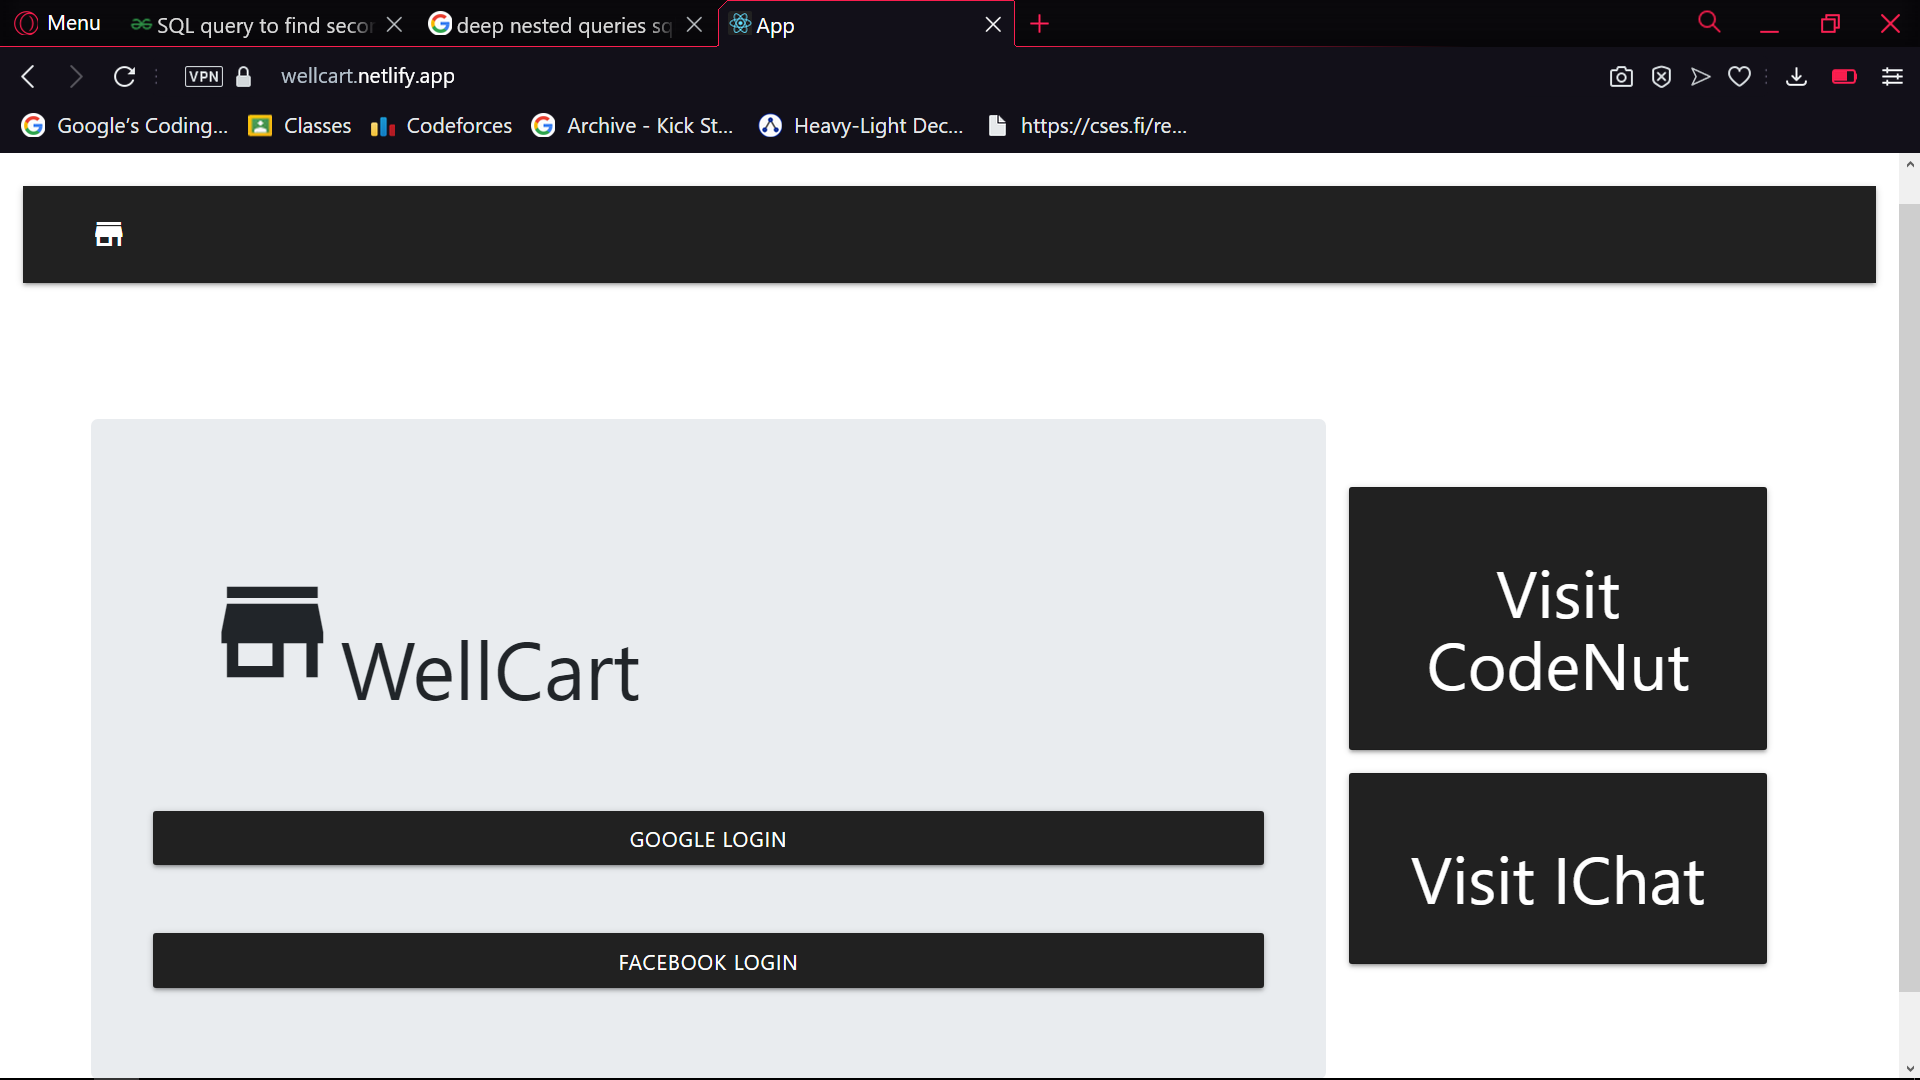
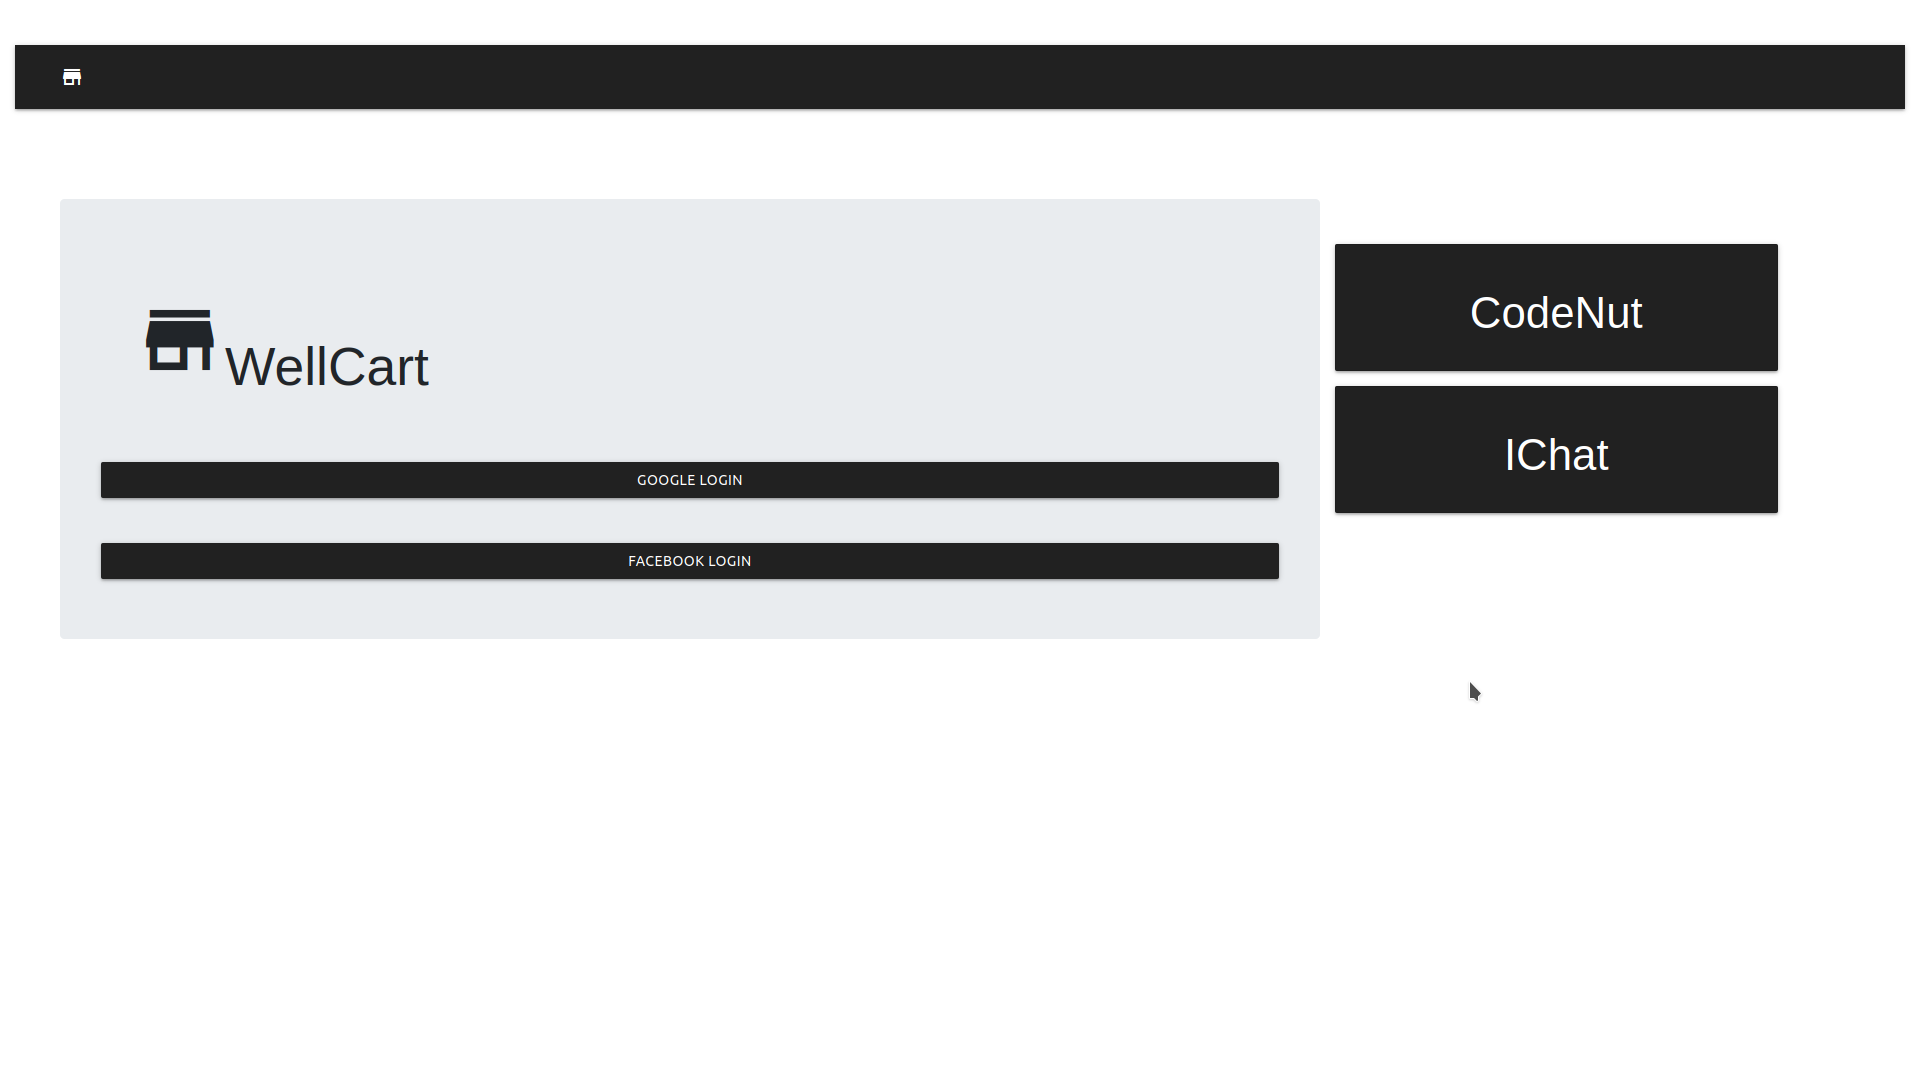
update

diff --git a/FrontEnd/app/src/components/index.js b/FrontEnd/app/src/components/index.js
@@ -195,19 +195,19 @@ const Index = () => {
       
         <div className="col-sm-3 mt-5 hide-on-small-only">
           <div className="card row p-3 mt-5 grey darken-4 white-text">
-            <center><h3 className="clickable" onClick={link_2}>Visit CodeNut</h3></center>
+            <center><h3 className="clickable" onClick={link_2}>CodeNut</h3></center>
           </div>
           <div className="card row p-3  grey darken-4 white-text">
-            <center><h3 className="clickable" onClick={link_1}>Visit IChat</h3></center>
+            <center><h3 className="clickable" onClick={link_1}>IChat</h3></center>
           </div>
         </div>
 
         <div className="col-sm-3 mt-3 hide-on-med-and-up">
           <div className="card row p-3 grey darken-4 white-text ">
-            <center><h4 className="clickable" onClick={link_2}>Visit CodeNut</h4></center>
+            <center><h4 className="clickable" onClick={link_2}>CodeNut</h4></center>
           </div>
           <div className="card row p-3 grey darken-4 white-text">
-            <center><h4 className="clickable" onClick={link_1}>Visit IChat</h4></center>
+            <center><h4 className="clickable" onClick={link_1}>IChat</h4></center>
           </div>
         </div>
       

diff --git a/FrontEnd/app/src/components/cart.js b/FrontEnd/app/src/components/cart.js
@@ -155,7 +155,7 @@ const Cart = () => {
           </ul>
         </div>
       </nav>
-      <div className="container hide-on-small-only">
+      <div className="hide-on-small-only">
         <div className="row m-5"></div>
         <div><h1>Cart</h1></div>
         <table className="highlight centered responsive-table">
@@ -192,7 +192,7 @@ const Cart = () => {
           </tbody>
         </table>
       </div>
-      <div className="container hide-on-med-and-up">
+      <div className="hide-on-med-and-up">
         <div className="row m-5"></div>
         <div><h1>Cart</h1></div>
         <table className="highlight centered responsive-table">

diff --git a/FrontEnd/app/src/components/shopping.js b/FrontEnd/app/src/components/shopping.js
@@ -107,12 +107,12 @@ const Shopping = () => {
         </div>
       </nav>
 
-      <div className="container mt-3 alert grey darken-1 text-white alert-dismissible fade show" role="alert">
+      <div className="mt-3 alert grey darken-1 text-white alert-dismissible fade show" role="alert">
         <strong onMouseEnter={alertBack}>{alert}</strong>
         
       </div>
       
-      <div className="container">
+      <div>
         <div className="row hide-on-small-only">
           {card} 
         </div>

diff --git a/FrontEnd/app/src/components/admin.js b/FrontEnd/app/src/components/admin.js
@@ -203,7 +203,7 @@ const Admin = () => {
           </div>
         </div>
       </div>
-      <div className="container">
+      <div>
         {createMap()}
         <div className="row hide-on-small-only">
           {card}
